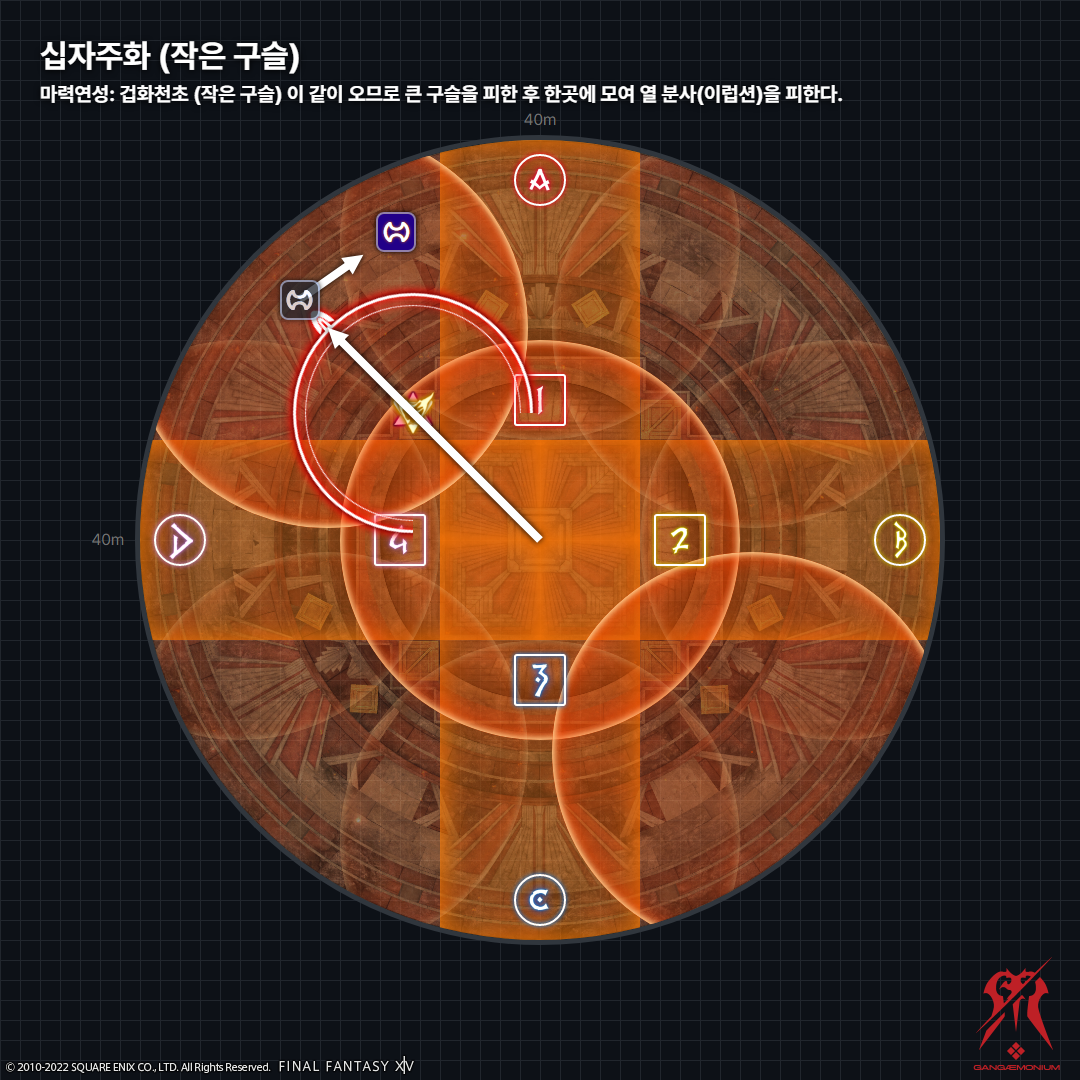
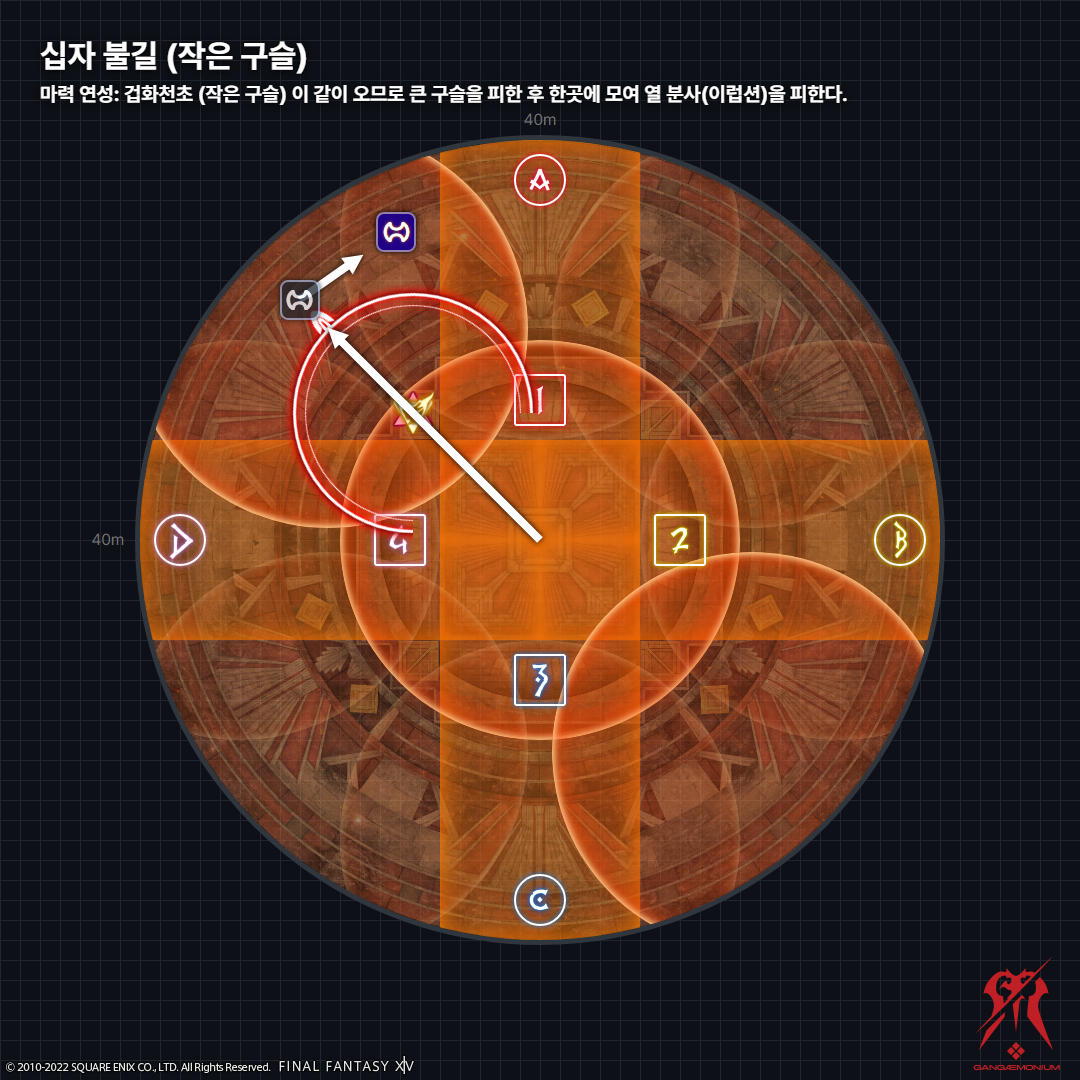
update

Changed region(s): [[0.0611, 0.0306, 0.7944, 0.0917]]

diff --git a/p3s/README.md b/p3s/README.md
@@ -1,9 +1,9 @@
 - [메인](https://github.com/Gangaemonium/Asphodelos/tree/main/README.md)
-- [마의 전당 판데모니움 변옥편 1층](https://github.com/Gangaemonium/Asphodelos/tree/main/p1s/README.md)
-- [마의 전당 판데모니움 변옥편 2층](https://github.com/Gangaemonium/Asphodelos/tree/main/p2s/README.md)
-- __마의 전당 판데모니움 변옥편 3층__
-- [마의 전당 판데모니움 변옥편 4층 전반](https://github.com/Gangaemonium/Asphodelos/tree/main/p4s_I/README.md) 
-- [마의 전당 판데모니움 변옥편 4층 후반](https://github.com/Gangaemonium/Asphodelos/tree/main/p4s_II/README.md)
+    - [마의 전당 판데모니움 변옥편 1층](https://github.com/Gangaemonium/Asphodelos/tree/main/p1s/README.md)
+    - [마의 전당 판데모니움 변옥편 2층](https://github.com/Gangaemonium/Asphodelos/tree/main/p2s/README.md)
+    - __마의 전당 판데모니움 변옥편 3층__
+    - [마의 전당 판데모니움 변옥편 4층 전반](https://github.com/Gangaemonium/Asphodelos/tree/main/p4s_I/README.md) 
+    - [마의 전당 판데모니움 변옥편 4층 후반](https://github.com/Gangaemonium/Asphodelos/tree/main/p4s_II/README.md)
 
 --------
 
@@ -21,7 +21,7 @@
     - 줄에 연결된 대상자 둘에게 좁은 범위 강공격
     - 본진은 보스 후방에 모여서 칼끝딜
     - 탱커 둘은 본진에 연결된 줄을 가져가 전방에서 처리
-- 마력연성: 겁화천초
+- 마력 연성: 겁화천초
     - 시전이 끝나고 나타나는 불 구슬의 형태에 따라 2가지의 패턴이 존재함
     - 큰 구슬 한 개 : 무작위 대상자 기준 넓은 범위 장판<br>
     전원 중앙에서 장판 유도 후 맵 12시 끝으로 이동하여 회피
@@ -51,9 +51,9 @@
     - 피격 시 주는 피해량 감소 디버프를 얻음
 - 열 분사
     - 전원 발 밑에 회피 가능한 원형 범위 장판 생성
-- 십자 불길 + 마력연성: 겁화천초 + 열 분사
+- 십자 불길 + 마력 연성: 겁화천초 + 열 분사
     - 전원 중앙에서 대기
-    - 마력연성: 겁화천초 패턴 확인 후 패턴에 따라 안전지대로 이동
+    - 마력 연성: 겁화천초 패턴 확인 후 패턴에 따라 안전지대로 이동
     - 큰 구슬 한 개일 경우 12시에 십자 불길 장판이 있으므로 11시 또는 1시로 이동
     - 작은 구슬 여러 개일 경우 첫 번째로 착탄된 장판 위치에 따라 11시 또는 1시로 이동
     - 십자 불길 범위 밖에 모여서 열 분사 장판 유도 후 회피
@@ -85,7 +85,7 @@
     - 새들끼리 가깝게 설치될 경우 줄이 연결되며 터지므로 징 위에 정확히 설치
     - 첫 번째 새떼 비상은 화살표가 외곽을 향하도록 설치
     - 두 번째 새떼 비상은 즉사 기믹을 처리하기 위해 화살표가 중앙을 향하도록 설치
-- 마력연성: 염암겁화
+- 마력 연성: 염암겁화
     - 시전이 끝나고 나타나는 어둠 구슬의 형태에 따라 2가지의 패턴이 존재함
     - 불 구슬은 작은 구슬 여러 개 고정
     - 어둠 구슬이 큰 구슬 한 개일 경우 탱커/힐러 각 1명 기준 쉐어 공격
@@ -102,7 +102,7 @@
 - 변옥의 불꽃
     - 보스 기준 양방향 60º 부채꼴 범위 공격 3회
     - 세번째 장판 위치에서 대기하다 첫번째 장판으로 이동
-- 마력연성: 어둠의 겁화천초
+- 마력 연성: 어둠의 겁화천초
     - 시전이 끝나고 나타나는 어둠 구슬의 형태에 따라 2가지의 패턴이 존재함
     - 어둠 구슬이 큰 구슬 한 개일 경우 탱커/힐러 각 1명 기준 쉐어 공격
     - 어둠 구슬이 작은 구슬 여러 개일 경우 전원 개인 범위 공격
@@ -113,12 +113,12 @@
     - 줄에 연결된 대상자 둘에게 좁은 범위 강공격 (탱커가 처리)
     - 보스와 가까운 3명에게 60º 부채꼴 범위 공격 (유격대를 제외한 나머지 딜러 셋이 처리)
     - 회오리와 가까운 3명에게 60º 부채꼴 범위 공격 (유격대와 힐러 둘이 처리)
-- 변옥의 암염선풍 + 열 분사 + 마력연성: 어둠의 겁화천초
+- 변옥의 암염선풍 + 열 분사 + 마력 연성: 어둠의 겁화천초
     - 운동회 기믹
     - 회오리 하나에게 검은색 선이 연결되며(일정 시간 후에 회오리 기준 넉백) 나머지 둘에게는 붉은색 선이 연결됨(일정 시간 후에 회오리 기준 도넛형 범위 공격)
     - 전원 검은색 선이 연결된 회오리 쪽에 모여 열 분사를 처리하며 보스 주변 한 바퀴 돌기
     - 근거리조는 검은색 선 회오리 왼쪽에, 원거리조는 오른쪽에 모여서 회오리 기준 넉백
-    - 붉은색 선이 연결된 회오리와 가깝게 넉백되어 도넛형 범위 공격을 피한 후 마력연성: 어둠의 겁화천초의 어둠 구슬의 형태에 따라 쉐어 또는 산개 처리
+    - 붉은색 선이 연결된 회오리와 가깝게 넉백되어 도넛형 범위 공격을 피한 후 마력 연성: 어둠의 겁화천초의 어둠 구슬의 형태에 따라 쉐어 또는 산개 처리
 - 죽음의 운명
     - 전원에게 죽음의 운명 디버프 부여 (1/2/4스택 무작위)
     - 죽을 데미지를 받을 때마다 체력을 1 남기고 디버프 1스택을 소모함
@@ -134,10 +134,10 @@
 
 ## 지옥불 염격
 ![/p3s/images/0065.png](https://raw.githubusercontent.com/Gangaemonium/Asphodelos/main/p3s/images/0065.png)
-## 마력연성: 겁화천초 (작은 구슬)
-![/p3s/images/003.png](https://raw.githubusercontent.com/Gangaemonium/Asphodelos/main/p3s/images/003.png)
-## 마력연성: 겁화천초 (큰 구슬)
-![/p3s/images/004.png](https://raw.githubusercontent.com/Gangaemonium/Asphodelos/main/p3s/images/004.png)
+## 마력 연성: 겁화천초 (작은 구슬)
+![/p3s/images/003.png](https://raw.githubusercontent.com/Gangaemonium/Asphodelos/main/p3s/images/0000.png)
+## 마력 연성: 겁화천초 (큰 구슬)
+![/p3s/images/004.png](https://raw.githubusercontent.com/Gangaemonium/Asphodelos/main/p3s/images/0001.png)
 ## 십자 불길 처리 (작은 구슬)
 ![/p3s/images/0090.png](https://raw.githubusercontent.com/Gangaemonium/Asphodelos/main/p3s/images/0090.png)
 > 작은 구슬의 경우 북쪽 방향으로 처음 떨어지는 구슬 쪽으로 이동한다.<br>그 후 시계방향으로 이동, 한곳에 모여 이럽션을 처리한다.
@@ -189,7 +189,10 @@
 >
 > tuufless식에 비해 힐업이 용이하다는 장점이 있다.<br>단점은 사고가 발생하면 처음부터 다시 시작해야 한다는 문제가 있다.
 >
-> 이외 처리법은 [여기](#변옥의-폭풍-무적-처리---tuufless식)에 정리되어 있음
+> 이외 처리법은 아래의 링크 클릭<br>
+> [tuufless (무적)](#변옥의-폭풍-무적-처리---tuufless식)<br>
+> [근딜 배려식 (정규)](#변옥의-폭풍-정규-처리---누케마루식)<br>
+> [남쪽 처리식 (정규)](#변옥의-폭풍-정규-처리---햄카츠이누마루식)
 ## 변옥의 암염선풍 처리
 ![/p3s/images/0067.png](https://raw.githubusercontent.com/Gangaemonium/Asphodelos/main/p3s/images/0067.png)
 ## 폭풍 + 어둠의 겁화천초

diff --git a/p4s_II/README.md b/p4s_II/README.md
@@ -1,9 +1,9 @@
 - [메인](https://github.com/Gangaemonium/Asphodelos/tree/main/README.md)
-- [마의 전당 판데모니움 변옥편 1층](https://github.com/Gangaemonium/Asphodelos/tree/main/p1s/README.md)
-- [마의 전당 판데모니움 변옥편 2층](https://github.com/Gangaemonium/Asphodelos/tree/main/p2s/README.md)
-- [마의 전당 판데모니움 변옥편 3층](https://github.com/Gangaemonium/Asphodelos/tree/main/p3s/README.md)
-- [마의 전당 판데모니움 변옥편 4층 전반](https://github.com/Gangaemonium/Asphodelos/tree/main/p4s_I/README.md) 
-- __마의 전당 판데모니움 변옥편 4층 후반__
+    - [마의 전당 판데모니움 변옥편 1층](https://github.com/Gangaemonium/Asphodelos/tree/main/p1s/README.md)
+    - [마의 전당 판데모니움 변옥편 2층](https://github.com/Gangaemonium/Asphodelos/tree/main/p2s/README.md)
+    - [마의 전당 판데모니움 변옥편 3층](https://github.com/Gangaemonium/Asphodelos/tree/main/p3s/README.md)
+    - [마의 전당 판데모니움 변옥편 4층 전반](https://github.com/Gangaemonium/Asphodelos/tree/main/p4s_I/README.md) 
+    - __마의 전당 판데모니움 변옥편 4층 후반__
 
 --------
 
@@ -11,7 +11,7 @@
 
 --------
 
-# 기믹 해설
+## 기믹 해설
 
 - 불타는 흐름
     - 광역 대미지. 파티 생존기 조율이 필요한 구간이 존재함

diff --git a/p1s/README.md b/p1s/README.md
@@ -1,9 +1,9 @@
 - [메인](https://github.com/Gangaemonium/Asphodelos/tree/main/README.md)
-- __마의 전당 판데모니움 변옥편 1층__
-- [마의 전당 판데모니움 변옥편 2층](https://github.com/Gangaemonium/Asphodelos/tree/main/p2s/README.md)
-- [마의 전당 판데모니움 변옥편 3층](https://github.com/Gangaemonium/Asphodelos/tree/main/p3s/README.md)
-- [마의 전당 판데모니움 변옥편 4층 전반](https://github.com/Gangaemonium/Asphodelos/tree/main/p4s_I/README.md) 
-- [마의 전당 판데모니움 변옥편 4층 후반](https://github.com/Gangaemonium/Asphodelos/tree/main/p4s_II/README.md)
+    - __마의 전당 판데모니움 변옥편 1층__
+    - [마의 전당 판데모니움 변옥편 2층](https://github.com/Gangaemonium/Asphodelos/tree/main/p2s/README.md)
+    - [마의 전당 판데모니움 변옥편 3층](https://github.com/Gangaemonium/Asphodelos/tree/main/p3s/README.md)
+    - [마의 전당 판데모니움 변옥편 4층 전반](https://github.com/Gangaemonium/Asphodelos/tree/main/p4s_I/README.md) 
+    - [마의 전당 판데모니움 변옥편 4층 후반](https://github.com/Gangaemonium/Asphodelos/tree/main/p4s_II/README.md)
 
 --------
 

diff --git a/p2s/README.md b/p2s/README.md
@@ -1,9 +1,9 @@
 - [메인](https://github.com/Gangaemonium/Asphodelos/tree/main/README.md)
-- [마의 전당 판데모니움 변옥편 1층](https://github.com/Gangaemonium/Asphodelos/tree/main/p1s/README.md)
-- __마의 전당 판데모니움 변옥편 2층__
-- [마의 전당 판데모니움 변옥편 3층](https://github.com/Gangaemonium/Asphodelos/tree/main/p3s/README.md)
-- [마의 전당 판데모니움 변옥편 4층 전반](https://github.com/Gangaemonium/Asphodelos/tree/main/p4s_I/README.md) 
-- [마의 전당 판데모니움 변옥편 4층 후반](https://github.com/Gangaemonium/Asphodelos/tree/main/p4s_II/README.md)
+    - [마의 전당 판데모니움 변옥편 1층](https://github.com/Gangaemonium/Asphodelos/tree/main/p1s/README.md)
+    - __마의 전당 판데모니움 변옥편 2층__
+    - [마의 전당 판데모니움 변옥편 3층](https://github.com/Gangaemonium/Asphodelos/tree/main/p3s/README.md)
+    - [마의 전당 판데모니움 변옥편 4층 전반](https://github.com/Gangaemonium/Asphodelos/tree/main/p4s_I/README.md) 
+    - [마의 전당 판데모니움 변옥편 4층 후반](https://github.com/Gangaemonium/Asphodelos/tree/main/p4s_II/README.md)
 
 --------
 

diff --git a/p4s_I/README.md b/p4s_I/README.md
@@ -1,9 +1,9 @@
 - [메인](https://github.com/Gangaemonium/Asphodelos/tree/main/README.md)
-- [마의 전당 판데모니움 변옥편 1층](https://github.com/Gangaemonium/Asphodelos/tree/main/p1s/README.md)
-- [마의 전당 판데모니움 변옥편 2층](https://github.com/Gangaemonium/Asphodelos/tree/main/p2s/README.md)
-- [마의 전당 판데모니움 변옥편 3층](https://github.com/Gangaemonium/Asphodelos/tree/main/p3s/README.md)
-- __마의 전당 판데모니움 변옥편 4층 전반__
-- [마의 전당 판데모니움 변옥편 4층 후반](https://github.com/Gangaemonium/Asphodelos/tree/main/p4s_II/README.md)
+    - [마의 전당 판데모니움 변옥편 1층](https://github.com/Gangaemonium/Asphodelos/tree/main/p1s/README.md)
+    - [마의 전당 판데모니움 변옥편 2층](https://github.com/Gangaemonium/Asphodelos/tree/main/p2s/README.md)
+    - [마의 전당 판데모니움 변옥편 3층](https://github.com/Gangaemonium/Asphodelos/tree/main/p3s/README.md)
+    - __마의 전당 판데모니움 변옥편 4층 전반__
+    - [마의 전당 판데모니움 변옥편 4층 후반](https://github.com/Gangaemonium/Asphodelos/tree/main/p4s_II/README.md)
 
 
 --------
